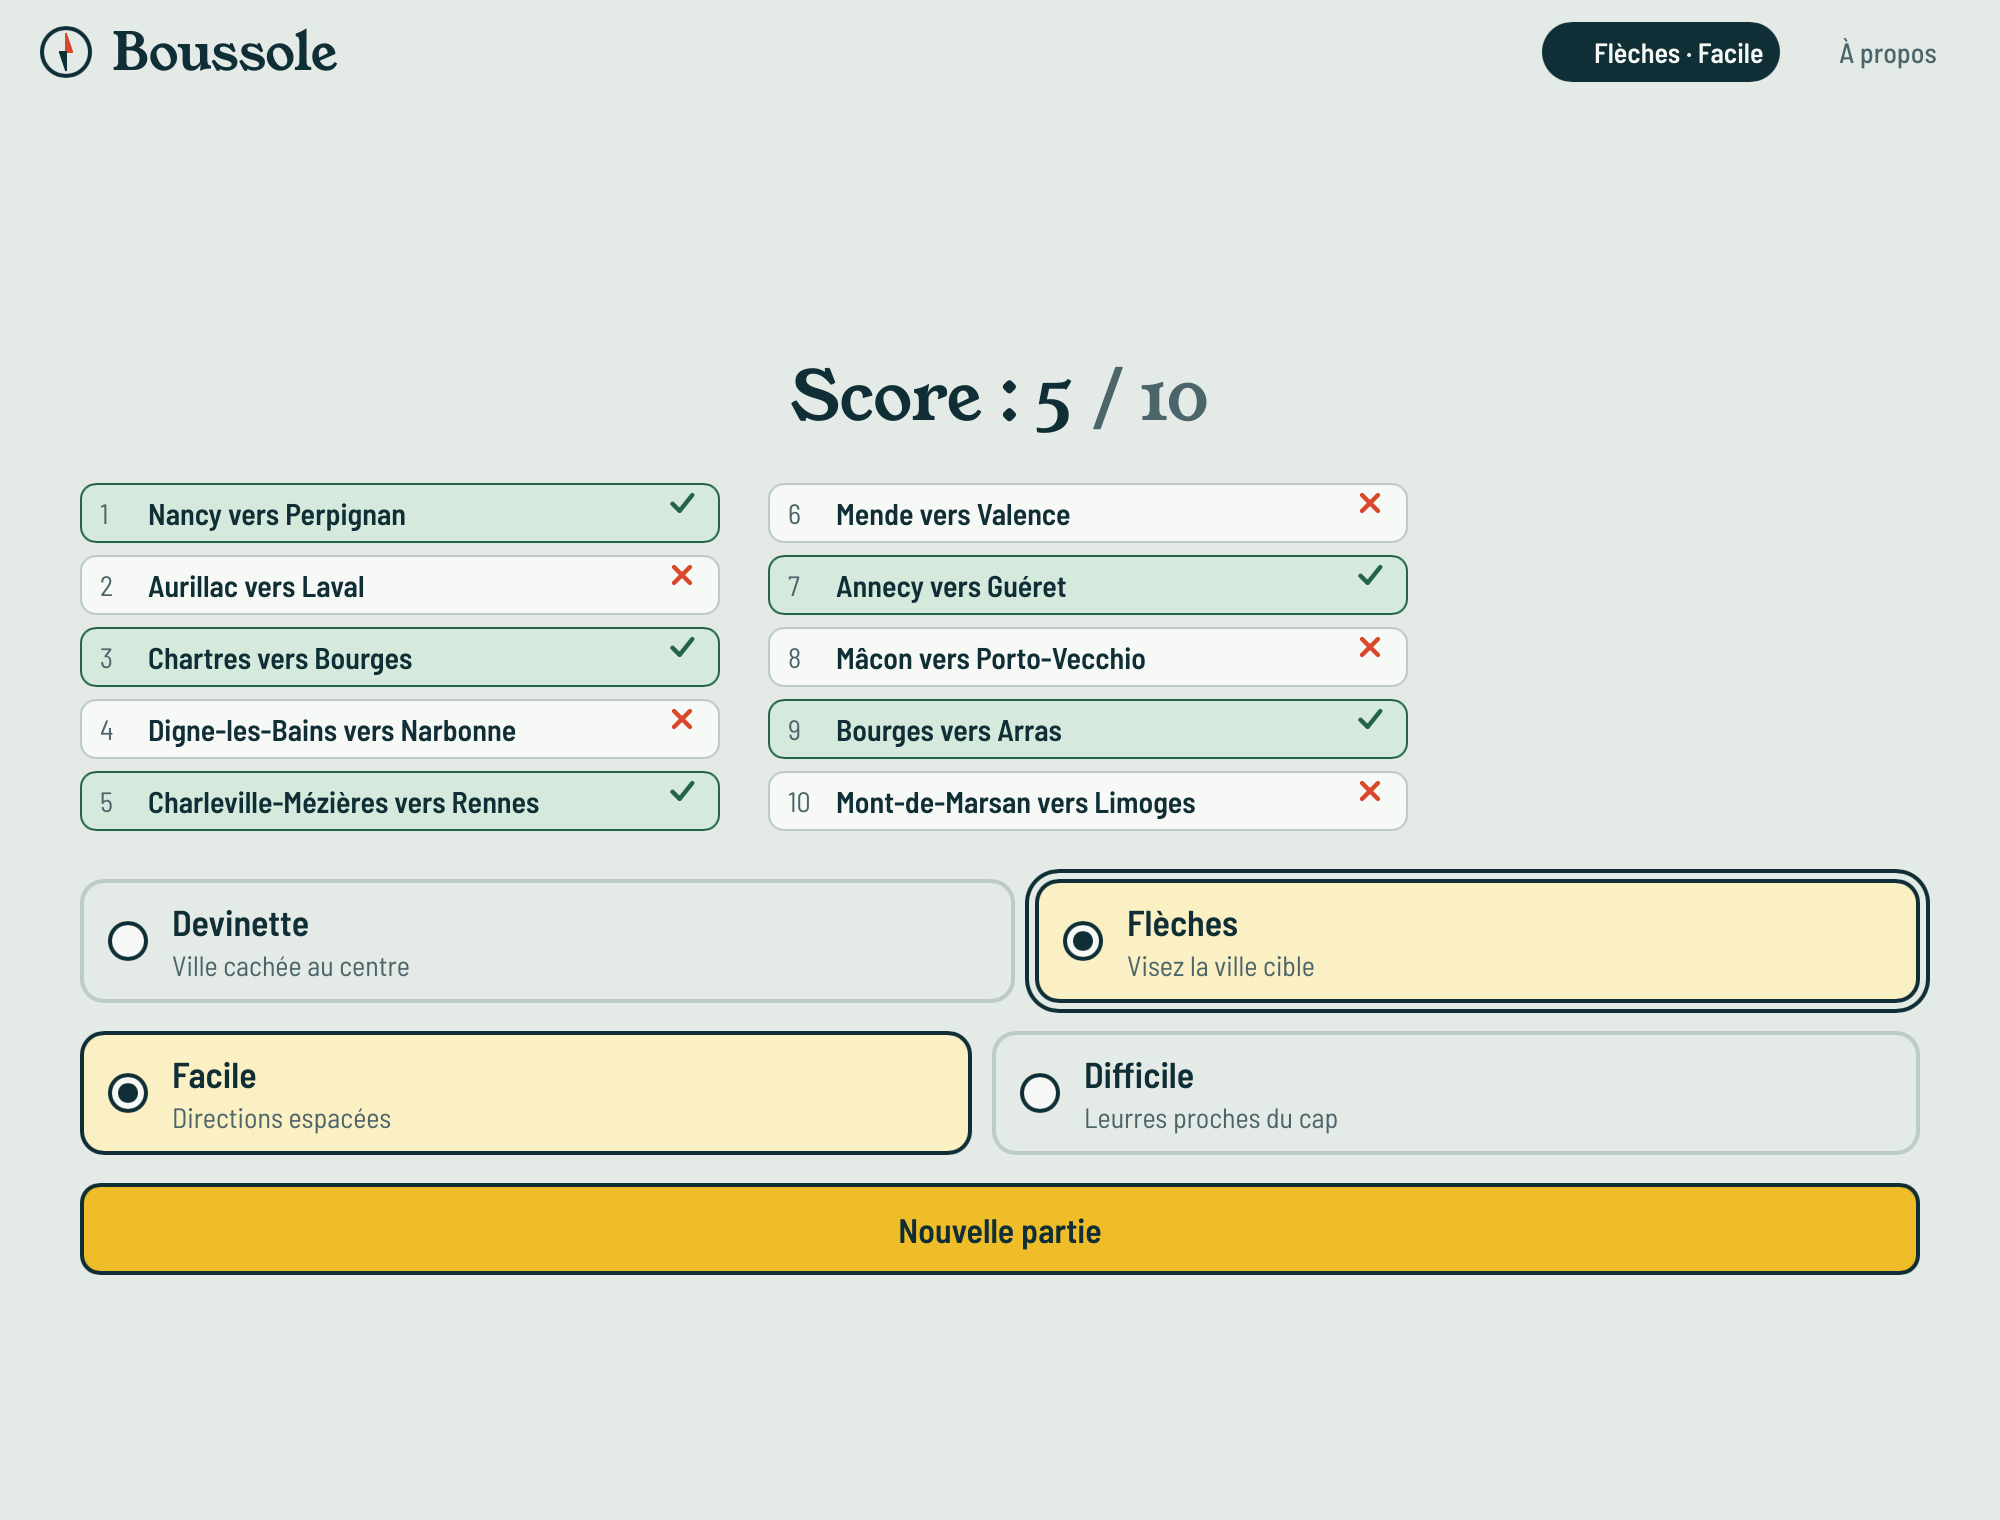
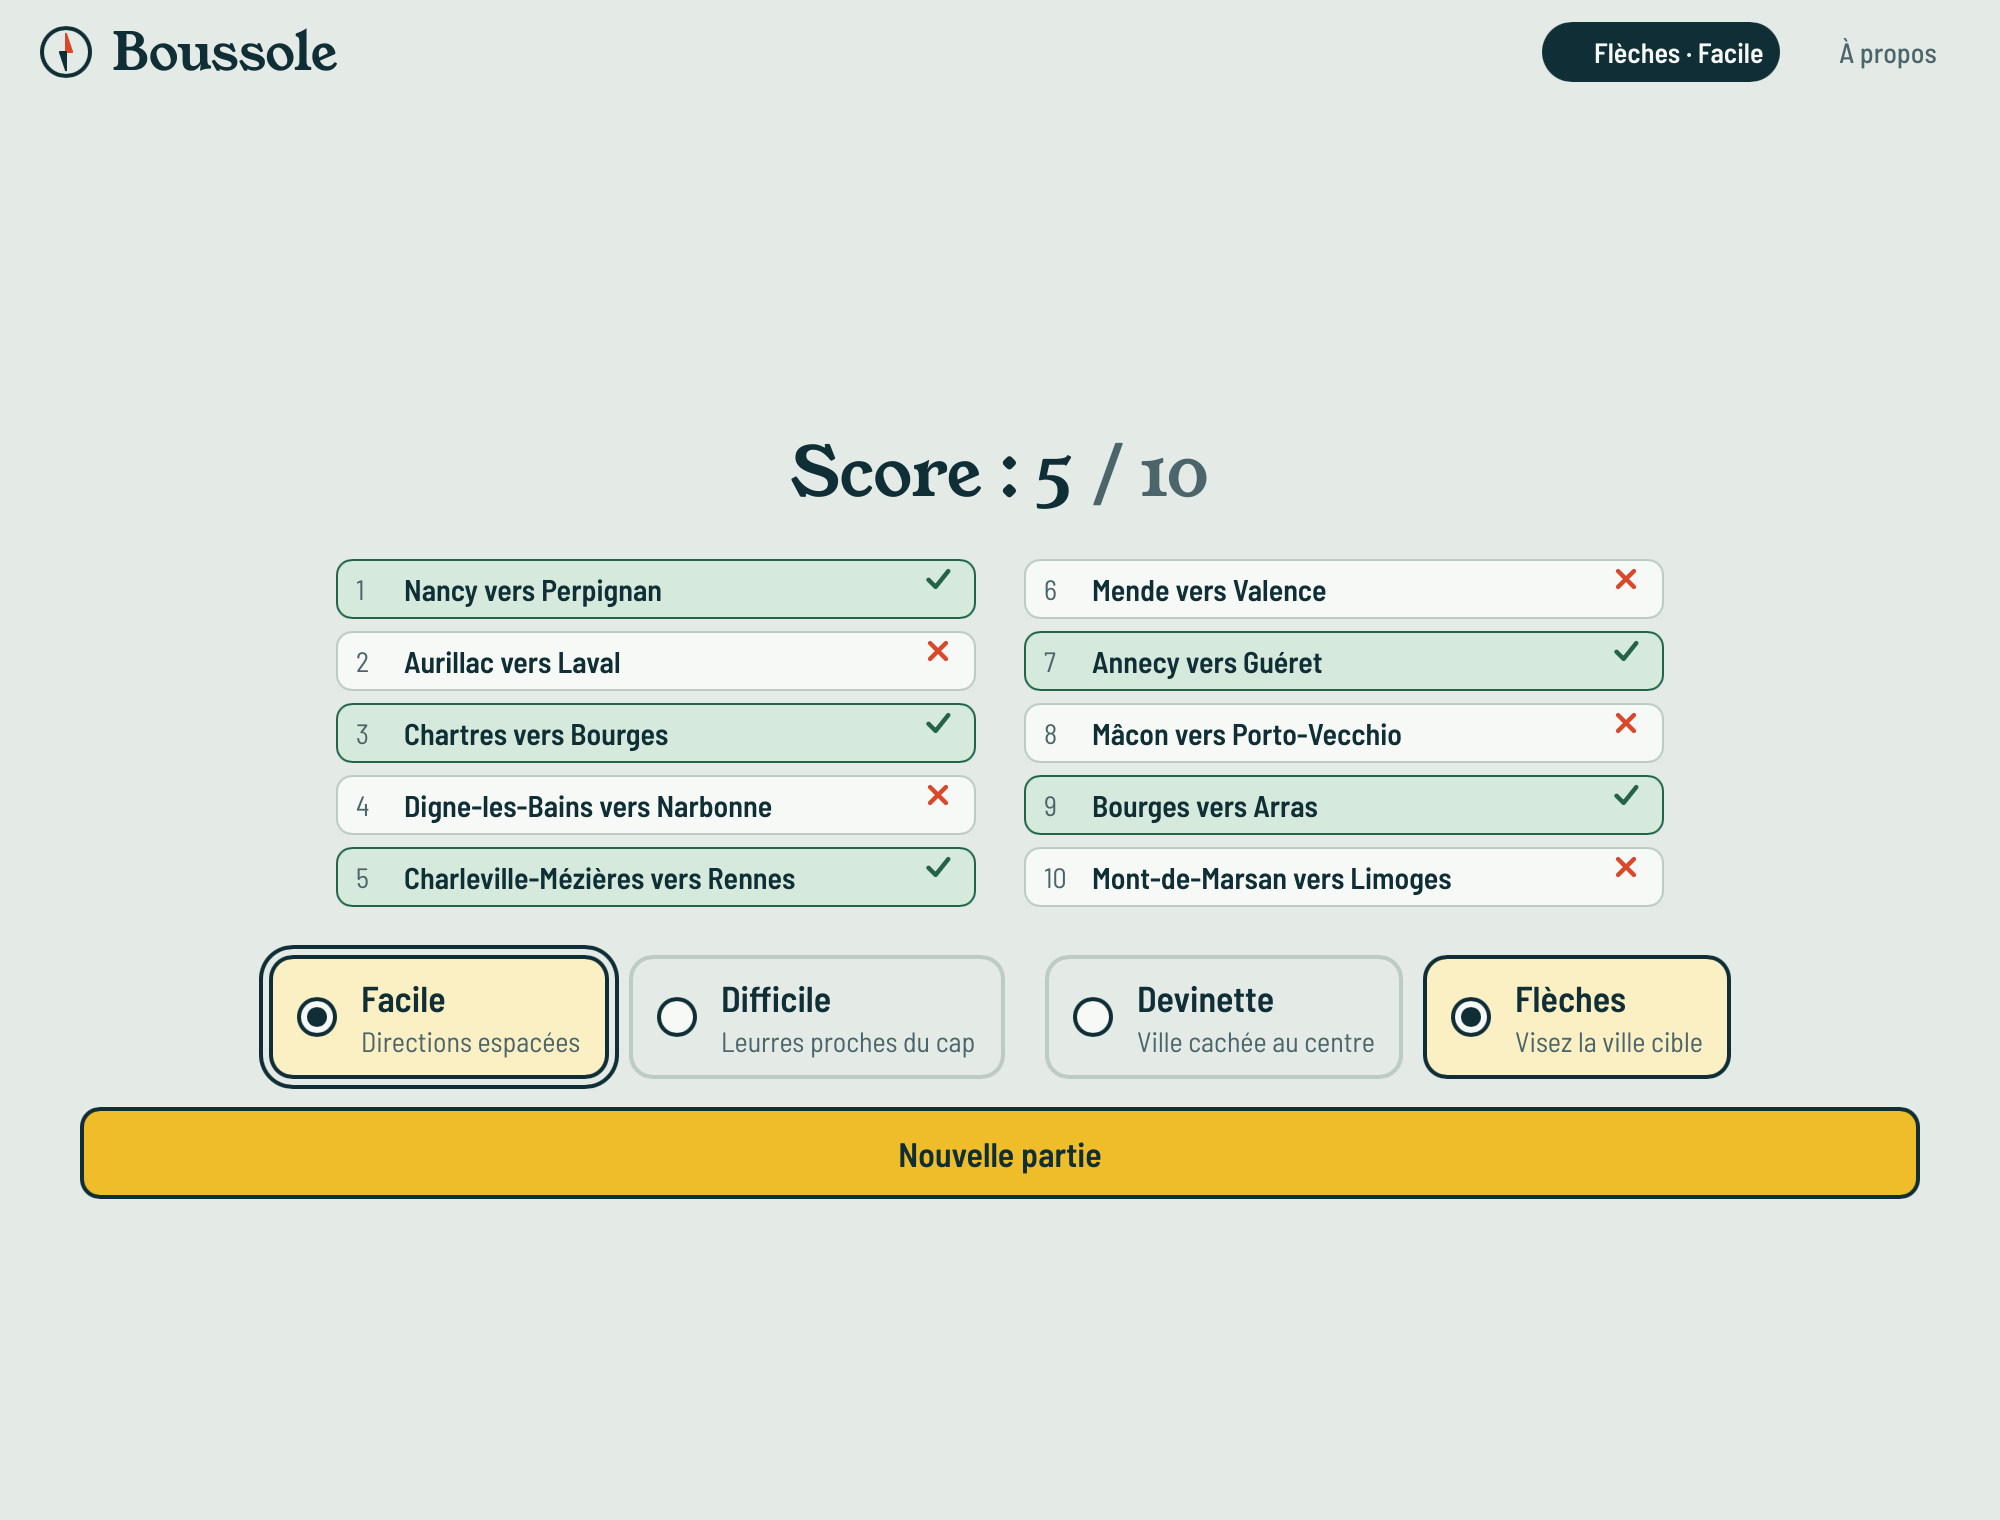
fix(client): French elision + Flèches score-screen layout review
Rework 1 of ticket 08 (review on 5cb747a):

- de_city(name, capitalized) in src/fleches.rs: "De Lyon" / "D’Aurillac"
  (typographic apostrophe), also before a mute h; used by the question
  heading and the verdict sentence, and pushed into the board summary.
  Unit-tested over the whole CITIES dataset (20 vowel-initial names all
  elide). Reusable for the online screens (ticket 10).
- The score-screen recap grid is centred (was left-aligned); verified by
  geometry assertions in tests/fleches_ui.rs and pixel positions of the
  regenerated screenshot.
- The score screen now shows the level to the left of the game choice,
  like the start screen (the level choice also takes the focus first);
  locked in by a test assertion.

Changed region(s): [[0.031, 0.2474, 0.961, 0.8658], [0.806, 0.4638, 0.837, 0.5257], [0.806, 0.3711, 0.837, 0.4329]]

diff --git a/src/fleches.rs b/src/fleches.rs
@@ -22,9 +22,32 @@ use crate::geo::Compass8;
 /// nearest arrow is always the one the player aimed at.
 pub const AIM_TOLERANCE_DEG: f64 = 45.0;
 
-/// "De Lyon vers Brest ?" — the question heading.
+/// Whether a city name starts with a vowel — accented ones included (Évreux, Orléans,
+/// Angoulême) — or a mute *h*, which all elide "de" in French. The dataset has no
+/// aspirated-*h* name; the only *h* cities would be mute ones like Hyères.
+fn starts_with_vowel_or_mute_h(name: &str) -> bool {
+    name.chars()
+        .next()
+        .and_then(|first| first.to_lowercase().next())
+        .is_some_and(|first| "haeiouyàâäéèêëîïôöùûüœ".contains(first))
+}
+
+/// "de" before a city name, with the French elision: "De Lyon" / "D’Aurillac"
+/// (capitalised, at the start of a sentence) or "de Lyon" / "d’Évreux". Every
+/// vowel-initial or mute-*h* name takes the elided form.
+///
+/// Kept reusable: the online Flèches screens (ticket 10) need the same sentences.
+pub fn de_city(name: &str, capitalized: bool) -> String {
+    if starts_with_vowel_or_mute_h(name) {
+        format!("{}’{name}", if capitalized { "D" } else { "d" })
+    } else {
+        format!("{} {name}", if capitalized { "De" } else { "de" })
+    }
+}
+
+/// "De Lyon vers Brest ?" / "D’Aurillac vers Laval ?" — the question heading.
 pub fn heading_text(origin: &str, target: &str) -> String {
-    format!("De {origin} vers {target} ?")
+    format!("{} vers {target} ?", de_city(origin, true))
 }
 
 /// "Bonne réponse !" / "Raté !" — the verdict.
@@ -36,12 +59,14 @@ pub fn verdict_text(is_correct: bool) -> &'static str {
     }
 }
 
-/// "Brest est à 690 km au nord-ouest de Lyon." — the sentence under the verdict.
+/// "Brest est à 690 km au nord-ouest de Lyon." / "… au nord-ouest d’Aurillac." — the
+/// sentence under the verdict.
 pub fn detail_text(origin: &str, target: &str, distance_km: f64, compass: Compass8) -> String {
     format!(
-        "{target} est à {} km {} de {origin}.",
+        "{target} est à {} km {} {}.",
         format_km(distance_km),
-        direction_phrase(compass)
+        direction_phrase(compass),
+        de_city(origin, false)
     )
 }
 
@@ -237,6 +262,7 @@ impl FlechesSession {
 #[cfg(test)]
 mod tests {
     use super::*;
+    use crate::cities::CITIES;
     use crate::geo::bearing_deg;
     use std::collections::HashSet;
 
@@ -249,11 +275,16 @@ mod tests {
     #[test]
     fn texts_are_french() {
         assert_eq!(heading_text("Lyon", "Brest"), "De Lyon vers Brest ?");
+        assert_eq!(heading_text("Aurillac", "Laval"), "D’Aurillac vers Laval ?");
         assert_eq!(verdict_text(true), "Bonne réponse !");
         assert_eq!(verdict_text(false), "Raté !");
         assert_eq!(
             detail_text("Lyon", "Brest", 690.4, Compass8::NW),
             "Brest est à 690 km au nord-ouest de Lyon."
+        );
+        assert_eq!(
+            detail_text("Aurillac", "Laval", 427.3, Compass8::N),
+            "Laval est à 427 km au nord d’Aurillac."
         );
         assert_eq!(
             reveal_label("Brest", 690.4, Compass8::NW),
@@ -262,6 +293,52 @@ mod tests {
         assert_eq!(
             reveal_label("Brest", 999.6, Compass8::SW),
             "Brest · 1 000 km · SO"
+        );
+    }
+
+    #[test]
+    fn de_elides_before_every_vowel_initial_city_of_the_dataset() {
+        // spot checks, accents and case included
+        assert_eq!(de_city("Lyon", true), "De Lyon");
+        assert_eq!(de_city("Lyon", false), "de Lyon");
+        assert_eq!(de_city("Aurillac", true), "D’Aurillac");
+        assert_eq!(de_city("Évreux", false), "d’Évreux");
+        assert_eq!(de_city("Orléans", true), "D’Orléans");
+        assert_eq!(de_city("Ajaccio", false), "d’Ajaccio");
+        assert_eq!(de_city("Angoulême", false), "d’Angoulême");
+        // a mute-h name elides too (none in the dataset yet, the rule must still hold)
+        assert_eq!(de_city("Hyères", true), "D’Hyères");
+
+        // the whole dataset: every name gets exactly one of the two forms, and the
+        // vowel-initial ones (there are many) all elide.
+        let mut vowel_initial = 0;
+        for city in CITIES {
+            let elided = starts_with_vowel_or_mute_h(city.name);
+            assert_eq!(
+                de_city(city.name, true),
+                if elided {
+                    format!("D’{}", city.name)
+                } else {
+                    format!("De {}", city.name)
+                },
+                "{}",
+                city.name
+            );
+            assert_eq!(
+                de_city(city.name, false),
+                if elided {
+                    format!("d’{}", city.name)
+                } else {
+                    format!("de {}", city.name)
+                },
+                "{}",
+                city.name
+            );
+            vowel_initial += usize::from(elided);
+        }
+        assert!(
+            vowel_initial >= 15,
+            "the dataset has vowel-initial cities ({vowel_initial}), the elision matters"
         );
     }
 

diff --git a/tests/fleches_ui.rs b/tests/fleches_ui.rs
@@ -343,12 +343,38 @@ fn a_full_game_with_the_mouse_only_then_back_to_devinette() {
         .current()
         .unwrap()
         .clone();
-    ui.element(
+    let recap1 = ui.element(
         &format!(
             "Question 1 : {} vers {}, bonne réponse",
             first.origin.name, first.target.name
         ),
         Some(AccessibleRole::Text),
+    );
+    // The recap grid is centred (two 320px columns and a 24px gap in a 1000px window) and
+    // the level sits to the left of the game choice, like on the start screen.
+    let expected_left = (1000.0 - (2.0 * 320.0 + 24.0)) / 2.0;
+    assert!(
+        (recap1.absolute_position().x - expected_left).abs() < 2.0,
+        "the recap is centred: {}",
+        recap1.absolute_position().x
+    );
+    let level = ui
+        .element(
+            "Facile : Directions espacées",
+            Some(AccessibleRole::RadioButton),
+        )
+        .absolute_position()
+        .x;
+    let game = ui
+        .element(
+            "Devinette : Ville cachée au centre",
+            Some(AccessibleRole::RadioButton),
+        )
+        .absolute_position()
+        .x;
+    assert!(
+        level < game,
+        "the level comes first, like on the start screen"
     );
     ui.element("Nouvelle partie", Some(AccessibleRole::Button));
 
@@ -456,7 +482,7 @@ fn assert_labels_inside(ui: &Ui, what: &str, width: u32, height: u32) {
         );
     }
     assert!(
-        board.summary.starts_with("De "),
+        board.summary.starts_with("De ") || board.summary.starts_with("D’"),
         "{what}: {summary}",
         summary = board.summary
     );
@@ -640,8 +666,9 @@ fn the_fleches_controls_have_accessible_names() {
         .clone();
     assert!(
         board.summary.contains(&format!(
-            "De {} vers {}",
-            question.origin.name, question.target.name
+            "{} vers {}",
+            fleches::de_city(question.origin.name, true),
+            question.target.name
         )),
         "{}",
         board.summary

diff --git a/examples/fleches_screenshots.rs b/examples/fleches_screenshots.rs
@@ -139,9 +139,9 @@ fn main() -> Result<()> {
     }
     studio.shoot("06-score.png")?;
 
-    // Difficile at the default size: from the score screen, Tab reaches the level choice,
-    // Right picks Difficile, Enter starts the next game of the seed sequence.
-    studio.key(Key::Tab);
+    // Difficile at the default size: from the score screen (the level choice has the
+    // focus, like on the start screen), Right picks Difficile, Enter starts the next
+    // game of the seed sequence.
     studio.key(Key::RightArrow);
     studio.suivant();
     studio.shoot("07-difficile-question.png")?;
@@ -154,7 +154,6 @@ fn main() -> Result<()> {
 
     // Back to Facile, at the minimum window: the choices are remembered except the level,
     // changed back with the keyboard on the score screen.
-    studio.key(Key::Tab);
     studio.key(Key::LeftArrow);
     studio.suivant();
     studio.resize(800, 600);

diff --git a/src/app.rs b/src/app.rs
@@ -224,8 +224,9 @@ pub(crate) fn compute_fleches_board(
         .collect();
 
     let mut summary = format!(
-        "De {} vers {} : ",
-        question.origin.name, question.target.name
+        "{} vers {} : ",
+        fleches::de_city(question.origin.name, true),
+        question.target.name
     );
     for (i, arrow) in layout.arrows.iter().enumerate() {
         if i > 0 {
